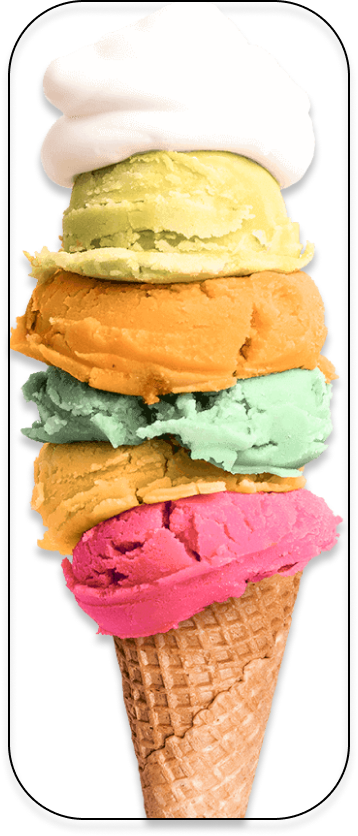
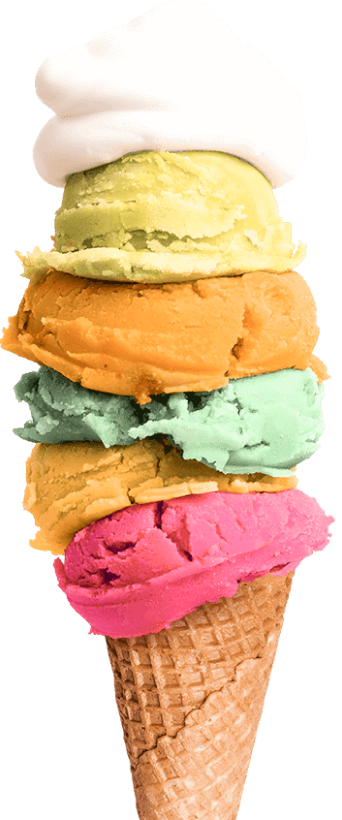
desctop & fix tablet

diff --git a/src/sass/components/_page-hero.scss b/src/sass/components/_page-hero.scss
@@ -1,15 +1,9 @@
-// .hero {
-//   position: relative;
-//   width: 100%;
-//   padding-left: 20px;
-//   height: 502px;
-//   overflow: hidden;
-//   background-color: #ffb8ca;
+
 
 .hero {
   position: relative;
   width: 100%;
-  padding-left: 20px;
+ 
   height: 502px;
   overflow: hidden;
   background-color: #ffb8ca;
@@ -146,7 +140,10 @@
   right: 50%;
   transform: translate(-50%);
   bottom: -75px;
+  display: block;
   max-width: 100%;
+  height: auto;
+ 
   @media screen and (min-width: $tablet) {
     bottom: -46px;
     left: 40%;
@@ -154,26 +151,23 @@
     transform: translate(-40%);
   }
   @media screen and (min-width: $desktop) {
-    bottom: -46px;
-    left: 40%;
-
-    transform: translate(-40%);
+    top: 63px;
+   
   }
 }
 .hero-sectio-title {
   position: absolute;
-  left: 20px;
+  
   top: 193px;
   // z-индех не менять завязка с выплывающим меню хедера
   z-index: 1;
-  margin-left: 20px;
+  
   @media screen and (min-width: $tablet) {
-    top: 84px;
-    left: 34px;
-    margin-left: 0;
+    top: 102px;
+   
   }
   @media screen and (min-width: $desktop) {
-    left: 115px;
+    
     top: 171px;
   }
 }
@@ -182,14 +176,14 @@
   position: absolute;
   display: none;
   @media screen and (min-width: $tablet) {
-    display: flex;
-    justify-content: center;
-    flex-direction: row;
-    left: 34px;
-    bottom: 34px;
+   display: block;
+   bottom: 59px;
+    left: 174px;
     @media screen and (min-width: $desktop) {
-      left: 0;
-      bottom: 0;
+      display: block; 
+     
+      left: 295px;
+      bottom: 102px;
     }
   }
   .milk-text {
@@ -198,13 +192,43 @@
     font-size: 8px;
     line-height: 150%;
     color: #fff;
-    margin-left: 124px;
-    margin-bottom: 25px;
+  
+    @media screen and (min-width: $desktop) {
+      width: 200px;
+      height: 78px;
+    font-size: 14px;
+line-height: 140%;}
   }
 }
 .hero-milk-img {
+  display: none;
+  @media screen and (min-width: $tablet) {
   position: absolute;
-  bottom: -4px;
+  display: block;
+  max-width: 100%;
+  height: auto;
+  bottom: 28px;}
+  @media screen and (min-width: $desktop) {
+    left:77px;
+    bottom: 45px;
+  }
+}
+.arrow-right{
+  display: none;
+  @media screen and (min-width: $tablet) {
+  display: block;
+ width: 18px;
+ height: 18px;
+ left: 174px;
+    bottom: 34px;
+    position: absolute;
+}
+@media screen and (min-width: $desktop) {
+  width: 26px;
+height: 26px;
+left: 295px;
+bottom: 56px;
+}
 }
 .hero-girl {
   position: absolute;
@@ -212,21 +236,36 @@
 
   @media screen and (min-width: $tablet) {
     display: block;
+    top: 267px;
     right: 34px;
-    bottom: -4px;
+   }
+   @media screen and (min-width: $desktop) {
+     top: 433px;
+     right: 109px;
+   }
+  .hero-ice-girl{
+    display: block;
+    max-width: 100%;
+    height: auto;
   }
 }
 .hero-ellipse-small {
   display: none;
   position: absolute;
   @media screen and (min-width: $tablet) {
-    bottom: 289px;
+    top: 94px;
     right: 34px;
     display: block;
     width: 16px;
     height: 16px;
     border-radius: 50%;
     background-color: #fff;
+    @media screen and (min-width: $desktop) {
+right: 97px;
+      top: 156px;
+    width: 30px;
+    height: 30px;
+    }}
     .ellipse-small-title {
       position: absolute;
       right: 10px;
@@ -238,29 +277,46 @@
       text-align: right;
       letter-spacing: 0.04em;
       color: #d41443;
-    }
+      @media screen and (min-width: $desktop) {
+        // top: 160px;
+        // right: 115px;
+      font-size: 46px;
+      line-height: 1.152;
+      }}
+    
     .ellipse-small-text {
       position: absolute;
       top: 28px;
       right: 10px;
       font-size: 8px;
-      line-height: 10px;
+      line-height: 1.25;
       text-align: right;
       color: #fff;
-    }
-  }
+      @media screen and (min-width: $desktop) {
+        font-size: 14px;
+  line-height: 1.285;
+  top: 47px;
 }
+   }
+  }
+
 .hero-ellipse-small-2 {
   display: none;
   position: absolute;
   @media screen and (min-width: $tablet) {
-    bottom: 232px;
+    top: 151px;
     right: 34px;
     display: block;
     width: 16px;
     height: 16px;
     border-radius: 50%;
-    background-color: #fff;
+    background-color: #fff;}
+    @media screen and (min-width: $desktop) {
+      top: 248px;
+      right: 97px;
+      width: 30px;
+      height: 30px;
+      }
     .small-title {
       position: absolute;
       right: 10px;
@@ -272,6 +328,11 @@
       text-align: right;
       letter-spacing: 0.04em;
       color: #d41443;
+      @media screen and (min-width: $desktop) {
+        font-size: 46px;
+        line-height: 1.152;
+       
+        }
     }
     .small-text {
       position: absolute;
@@ -280,9 +341,15 @@
       width: 43px;
       height: 10px;
       font-size: 8px;
-      line-height: 10px;
+      line-height: 1.25;
       text-align: right;
       color: #fff;
+      @media screen and (min-width: $desktop) {
+      font-size: 14px;
+line-height: 1.285;
+width: 74px;
+height: 18px;
+top: 47px;}
     }
-  }
+  
 }

diff --git a/src/partials/page-hero.html b/src/partials/page-hero.html
@@ -13,34 +13,40 @@
 </div>
 
  </div>
+ <picture>
+  <source srcset="../src/images/hero/slider-milk@1x.png 1x, ../src/images/hero/slider-milk@2x.png 2x" media="(max-width:1000px)" type="" />
+  <source srcset="../src/images/hero/slider-milk-desctop@1x.png 1x, ../src/images/hero/slider-milk-desctop@2x.png 2x" media="(max-width:1280px)" type="" />
+ 
+  <img class="hero-milk-img" src="../src/images/hero/slider-milk-desctop.png " alt="" />
+</picture>
  <div class="hero-milk">
    
-    <picture>
-        <source srcset="../src/images/hero/slider-milk@1x.png 1x, ../src/images/hero/slider-milk@2x.png 2x" media="(min-width:768px)" type="" />
-        <source srcset="../src/images/hero/slider-milk-desctop@1x.png 1x, ../src/images/hero/slider-milk-desctop@2x.png 2x" media="(min-width:1280px)" type="" />
-       
-        <img class="hero-milk-img" src="../src/images/hero/slider-milk-desctop.png " alt="" />
-      </picture>
+    
       <p class="milk-text" >Lorem ipsum dolor sit amet, consectetur adipiscing elit, sed do eiusmod tempor incididunt ut labore et</p>
 
 </div>
+<picture>
+  <source srcset="../src/images/hero/arrow-right@1x.png 1x, ../src/images/hero/arrow-right@2x.png 2x" media="(min-width:768px)" type="" />
+ 
+  <img class="arrow-right" src="../src/images/hero/arrow-right.png" alt="" />
+</picture>
 
   <div class="hero-ellipse">
   
        <picture>
-        <source srcset="../src/images/hero/slider-pic@1x.png 1x, ../src/images/hero/slider-pic@2x.png 2x" media="(min-width: 320px)" type="" />
-        <source srcset="../src/images/hero/slider-pic-tablet@1x.png 1x, ../src/images/hero/slider-pic-tablet@2x.png 2x" media="(max-width:767px)" type="" />
-        <source srcset="../src/images/hero/slider-pic-desctop@1x.png 1x, ../src/images/hero/slider-pic-desctop@2x.png 2x" media="(min-width:1170px)" type="" />
+        <source srcset="../src/images/hero/slider-pic@1x.png 1x, ../src/images/hero/slider-pic@2x.png 2x" media="(max-width: 767px)" type="" />
+        <source srcset="../src/images/hero/slider-pic-tablet@1x.png 1x, ../src/images/hero/slider-pic-tablet@2x.png 2x" media="(max-width:1000px)" type="" />
+        <source srcset="../src/images/hero/slider-pic-desctop@1x.png 1x, ../src/images/hero/slider-pic-desctop@2x.png 2x" media="(max-width:1280px)" type="" />
         <img class="hero-ice-cream" src="../src/images/hero/slider-pic.png" alt="" />
       </picture>
   </div>
    
   <div class="hero-girl">
     <picture>
-        <source srcset="../src/images/hero/slider-girl@1x.png 1x, ../src/images/hero/slider-girl@2x.png 2x" media="(min-width:768px)" type="" />
-        <source srcset="" media="" type="" />
+        <source srcset="../src/images/hero/slider-girl@1x.png 1x, ../src/images/hero/slider-girl@2x.png 2x" media="(max-width:1000px)" type="" />
+        <source srcset="../src/images/hero/slider-girl-desctop@1x.png 1x, ../src/images/hero/slider-girl-desctop@2x.png 2x " media="(max-width:1280px)" type="" />
        
-        <img class="hero-ice-girl" src="" alt="" />
+        <img class="hero-ice-girl" src="../src/images/hero/slider-girl.png " alt="" />
       </picture>
 </div>
 
